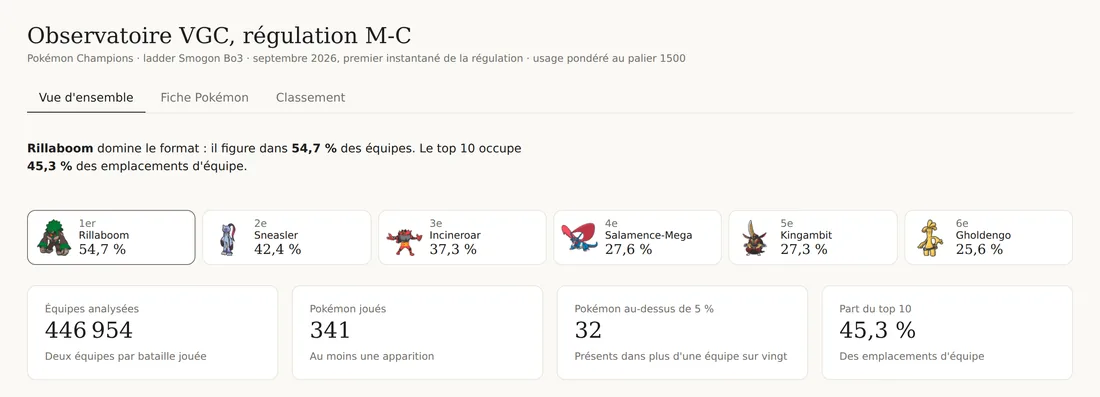
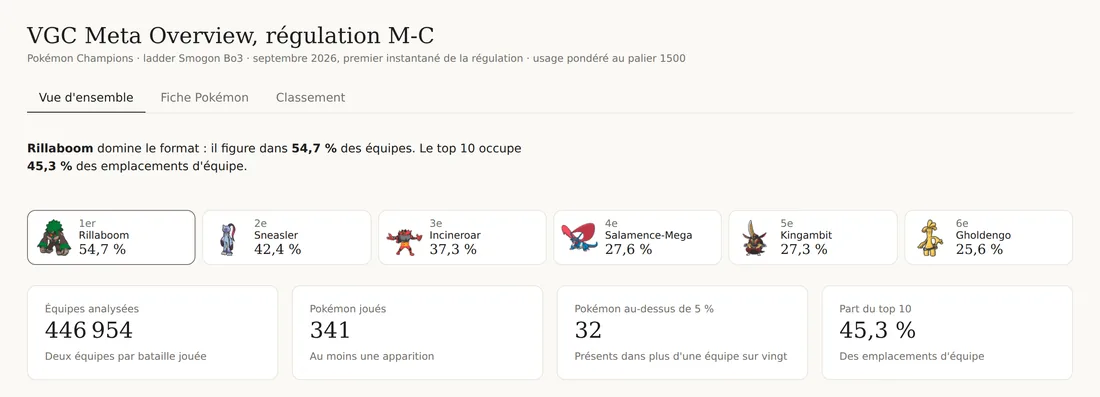
Projet renommé VGC Meta Overview

Changed region(s): [[0.0, 0.0605, 0.4018, 0.1209]]

diff --git a/README.md b/README.md
@@ -1,6 +1,6 @@
-# Observatoire du métagame Pokémon VGC
+# VGC Meta Overview
 
-Suivre des parts de marché sur un marché qui change tous les mois.
+Suivi mensuel du métagame Pokémon VGC.
 
 Ce dépôt contient un pipeline Python qui archive chaque mois les statistiques
 publiques du jeu compétitif Pokémon Champions (format VGC, régulation M-C),
